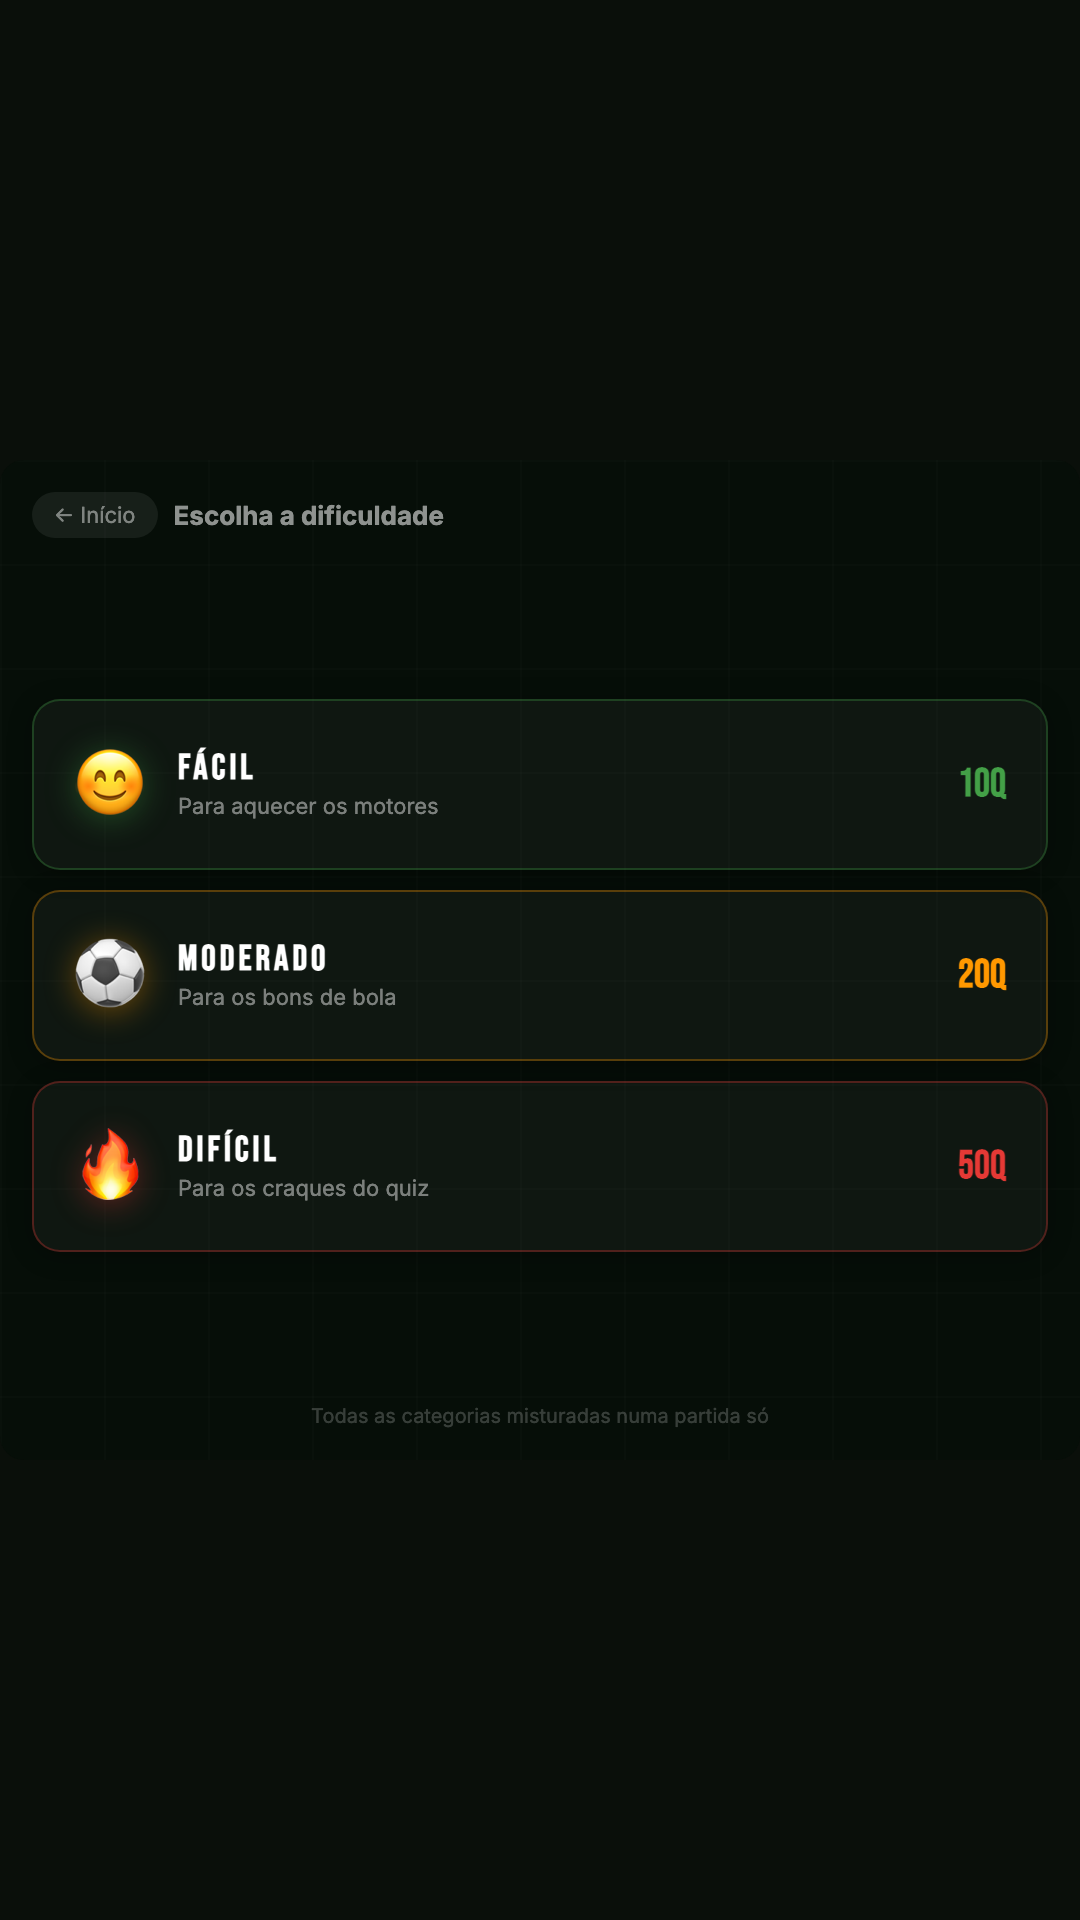
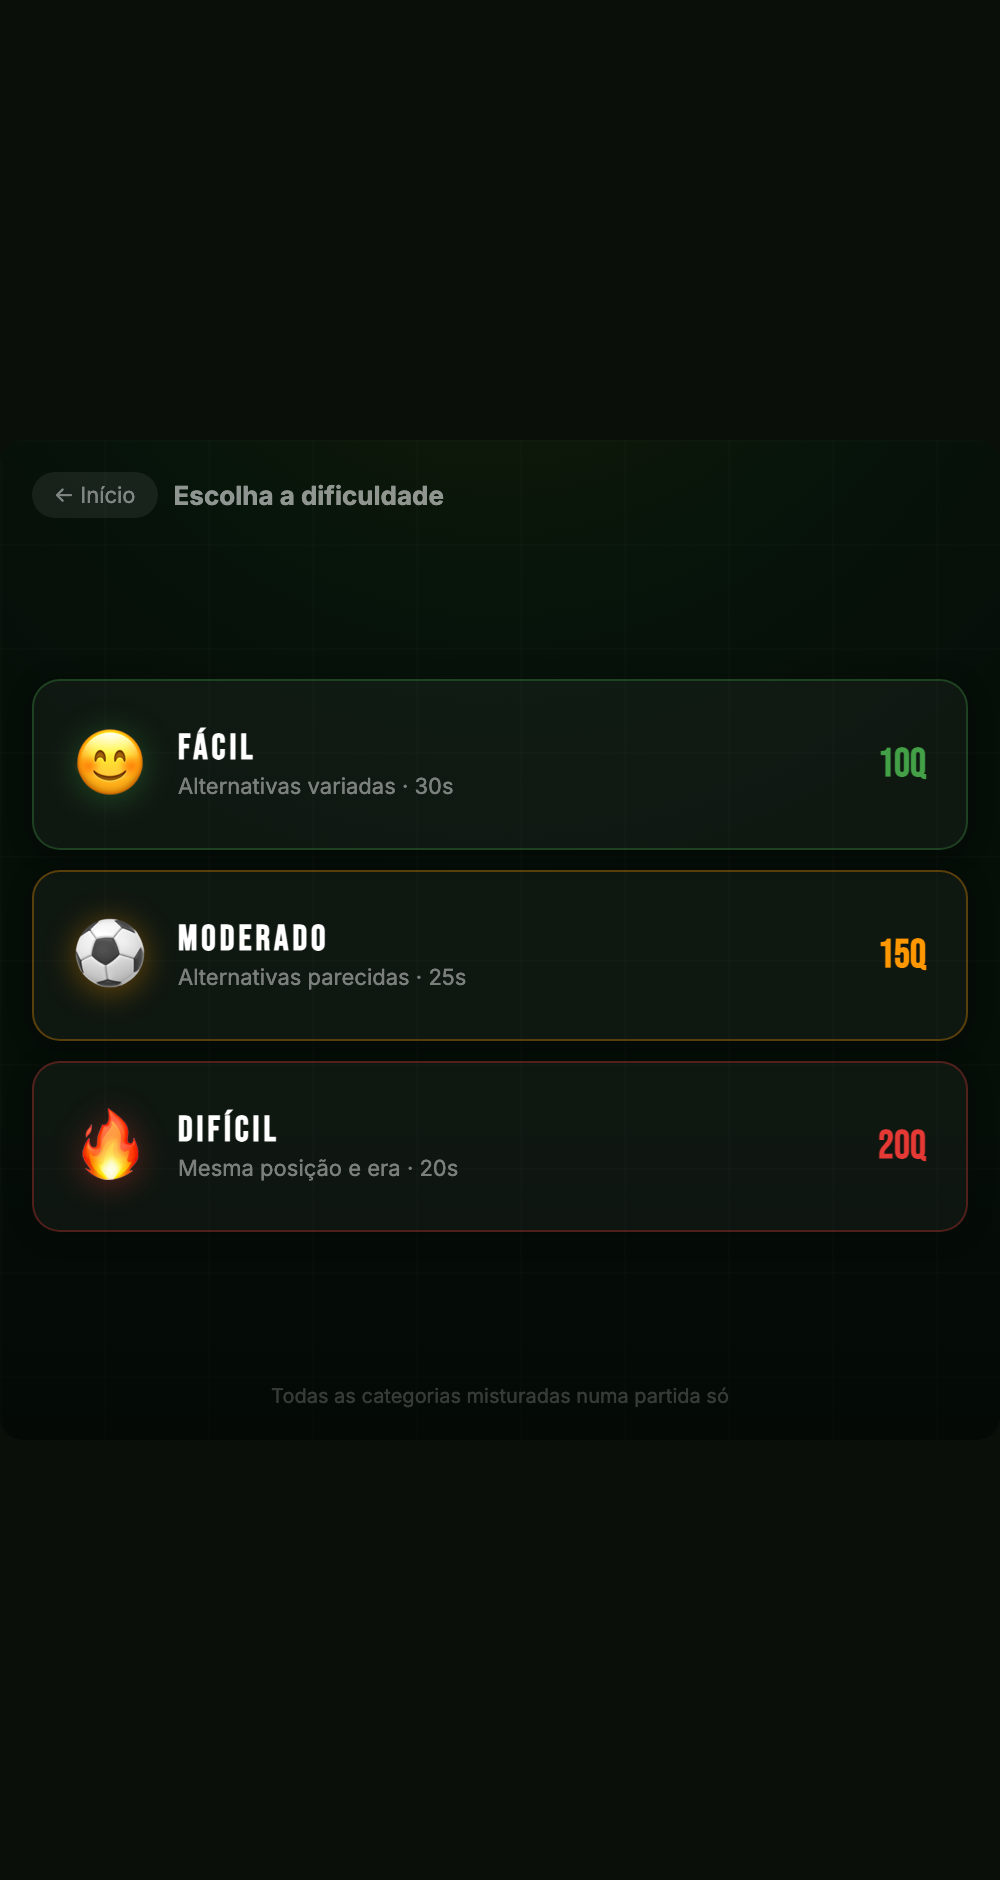
Refresh store assets and correct privacy policy for local storage
The app now persists records, stats, medals, the daily result and the sound
preference in localStorage. The privacy policy still claimed scores were
in-memory only and discarded on close, which was no longer true — rewritten
to describe on-device storage explicitly and state that it never leaves the
device. Data safety stays 'No data collected' (nothing is transmitted), and
the checklist now spells out why.

Also: 6 fresh 1000x1880 store screenshots covering the new home, medals,
photo-reveal and end screens; store description rewritten around the new
modes; checklist points at app-upload-v2.aab.

diff --git a/privacy.html b/privacy.html
@@ -13,7 +13,7 @@
 </head>
 <body>
   <h1>Política de Privacidade — Futebol Quiz BR</h1>
-  <p><strong>Última atualização:</strong> 28 de julho de 2026</p>
+  <p><strong>Última atualização:</strong> 1 de agosto de 2026</p>
 
   <p>O aplicativo <strong>Futebol Quiz BR</strong> ("o aplicativo") é um jogo de perguntas
   sobre futebol. Esta política explica como tratamos suas informações.</p>
@@ -23,9 +23,13 @@
   qualquer dado pessoal. Ele não solicita cadastro, login, localização, contatos, câmera,
   microfone ou qualquer permissão sensível.</p>
 
-  <h2>Pontuação do jogo</h2>
-  <p>Sua pontuação é mantida apenas temporariamente na memória do dispositivo durante a
-  partida e é descartada ao fechar o aplicativo. Ela nunca sai do seu dispositivo.</p>
+  <h2>Pontuação e progresso</h2>
+  <p>O aplicativo guarda no <strong>próprio aparelho</strong> (armazenamento local do
+  navegador) apenas: seus recordes, estatísticas de partidas, medalhas conquistadas,
+  o resultado do desafio diário e a preferência de som. Esses dados
+  <strong>nunca são enviados para nenhum servidor</strong>, não são compartilhados com
+  ninguém e não identificam você. Você pode apagá-los a qualquer momento limpando os
+  dados do aplicativo nas configurações do aparelho.</p>
 
   <h2>Anúncios e análises</h2>
   <p>O aplicativo <strong>não</strong> exibe anúncios e <strong>não</strong> utiliza
@@ -44,9 +48,10 @@
 
   <div class="lang">
     <h2>English summary</h2>
-    <p><strong>Futebol Quiz BR</strong> collects no data whatsoever. It has no accounts,
-    no ads, no analytics, and requests no sensitive permissions. Game scores are held only
-    in memory during play and discarded when the app closes — nothing ever leaves your device.
+    <p><strong>Futebol Quiz BR</strong> collects no personal data. It has no accounts,
+    no ads, no analytics, and requests no sensitive permissions. Your records, stats,
+    medals and sound preference are stored locally on your own device and are never
+    transmitted anywhere — nothing ever leaves your device.
     Contact: <a href="mailto:tiagor.reis@gmail.com">tiagor.reis@gmail.com</a></p>
   </div>
 </body>

diff --git a/tools/shots.py b/tools/shots.py
@@ -8,6 +8,24 @@ OUT = os.path.join(ROOT, "store-assets")
 
 # name -> JS to run once the page has booted
 STATES = {
+ "shot-01-home": """stats={games:14,correct:132,answered:190,bestStreak:6,perfect:1,hard80:1,survBest:9};
+   LS.set('stats',stats); sc='home'; go();""",
+ "shot-02-difficulty": "sc='difficulty'; go();",
+ "shot-03-question": """diffKey='dificil'; startGame();""",
+ "shot-04-players": """diffKey='moderado';
+   cat = buildGame('moderado');
+   const rq = GEN_QS(2).find(q => q.reveal);
+   cat.qs=[rq]; qi=0; sel.clear(); pts=0; streak=0; runLog=[];
+   sc='quiz'; tMax=25; tLeft=17; disp=getDisp(rq); go();""",
+ "shot-05-medals": """stats={games:14,correct:132,answered:190,bestStreak:6,perfect:1,hard80:1,survBest:4};
+   LS.set('stats',stats); sc='medals'; go();""",
+ "shot-06-end": """diffKey='dificil';
+   cat = buildGame('dificil'); cat.qs = cat.qs.slice(0,10);
+   pts=64; nCorrect=8; nPartial=1; bestStreak=5; streak=5;
+   runLog=[3,3,3,0,3,3,1,3,3,3]; scores['dificil']=64;
+   stats={games:12,correct:74,answered:110,bestStreak:7};
+   sc='end'; go();""",
+
  "s-wrong": """diffKey='moderado'; startGame();
    const q=cat.qs[0]; const bad=disp.find(o=>!q.a.includes(o.id));
    sel=new Set([bad.id]); tLeft=12; doReveal();""",

diff --git a/PLAY_STORE_LISTING.md b/PLAY_STORE_LISTING.md
@@ -13,31 +13,41 @@ Futebol Quiz BR
 
 **Short description** (max 80)
 ```
-Teste seus conhecimentos sobre futebol! Perguntas de craques, times e história.
+Quiz de futebol: craques, clubes e história. Desafio diário e mata-mata!
 ```
 
 **Full description** (max 4000)
 ```
 ⚽ Você realmente entende de futebol? Prove no Futebol Quiz BR!
 
-Coloque seu conhecimento à prova com perguntas sobre jogadores, clubes, seleções,
-títulos e momentos históricos do esporte mais amado do Brasil.
+Perguntas sobre craques, clubes, seleções, estádios e história — com fotos e
+escudos de verdade. Cada partida é diferente: as perguntas são montadas na
+hora, então nunca se repete.
 
-🏆 O QUE VOCÊ ENCONTRA:
-• Perguntas sobre craques, times e história do futebol
-• Vários níveis de dificuldade
-• Pontuação a cada acerto — tente bater seu recorde
-• Jogo rápido, perfeito para qualquer momento do dia
-• 100% em português
+🎮 MODOS DE JOGO:
+• Clássico — Fácil, Moderado e Difícil (as alternativas ficam mais parecidas
+  conforme a dificuldade: mesma posição, mesma época, mesma seleção)
+• Desafio Diário — a mesma partida para todo mundo, todo dia
+• Mata-mata — errou, acabou. Até onde você vai?
+• Foto revelada — a imagem vai ficando nítida; quem responde antes ganha mais
+• Caminho na carreira — descubra o jogador pelos clubes por onde passou
+
+🔥 PARA JOGAR DE VERDADE:
+• Sequências que multiplicam seus pontos (×2 e ×3)
+• Bônus por responder rápido
+• Ajudas: 50/50, congelar o tempo e pular
+• 11 medalhas para desbloquear
+• Recordes e estatísticas salvos no aparelho
+• Compartilhe seu resultado no WhatsApp
 
 📵 SEM COMPLICAÇÃO:
 • Sem cadastro e sem login
 • Sem anúncios
 • Não coleta nenhum dado pessoal
-• Leve e rápido
+• Leve, rápido e funciona offline
 
-Do futebol raiz aos dias atuais — quantas você acerta? Desafie os amigos e descubra
-quem é o verdadeiro craque do quiz!
+Do futebol raiz aos dias atuais — quantas você acerta?
+Desafie os amigos e descubra quem é o verdadeiro craque do quiz! 🇧🇷
 ```
 
 **Privacy policy URL**
@@ -53,19 +63,23 @@ https://tdosreis.github.io/futebol-quiz/privacy.html
 | Asset | Spec | Notes |
 |-------|------|-------|
 | App icon | 512×512 PNG (32-bit) | You already have icons/icon-512.png |
-| Feature graphic | 1024×500 PNG/JPG | Required. Needs to be made. |
-| Phone screenshots | 2–8, min 320px, 16:9 or 9:16 | REQUIRED. Capture from your phone/emulator. |
+| Feature graphic | 1024×500 PNG/JPG | Ready: store-assets/feature-graphic.png |
+| Phone screenshots | 2–8, min 320px | 6 ready: store-assets/shot-01..06 (1000×1880) |
 | Tablet screenshots | optional | skip unless targeting tablets |
 
-Tip: take screenshots of the difficulty screen, a question mid-game, and the score screen.
+All six are regenerated by `python3 tools/shots.py` after any UI change.
 
 ---
 
 ## 3. Required questionnaires (App content section)
 
 - **Privacy policy**: URL above
-- **Data safety**: "No data collected" / "No data shared" (verified: app has no
-  network calls, no analytics, no localStorage — scores are in-memory only)
+- **Data safety**: "No data collected" / "No data shared".
+  Verified: no network calls, no analytics, no ad SDK, no account.
+  NOTE: the app DOES use localStorage for records, stats, medals and the daily
+  streak — but that is on-device only and never transmitted, so it is not
+  "collection" under Play's definition. Answer "No" and keep it accurate by
+  never adding anything that sends it off the device.
 - **Ads**: No, my app does not contain ads
 - **Content rating**: complete IARC questionnaire → will come out "Everyone / Livre"
 - **Target audience & content**: 13+ is simplest; avoid the "under 13" (Families) track
@@ -109,7 +123,7 @@ Verify after push: `curl https://tdosreis.github.io/.well-known/assetlinks.json`
 ## 5. Publish order
 
 1. Create app (App name, package `io.github.tdosreis.futebolquiz`, pt-BR, Game, Free, declarations)
-2. Upload **`android/app-upload.aab`** (the re-signed bundle) → **Internal testing** first
+2. Upload **`android/app-upload-v2.aab`** (versionCode 2, current icon) → **Internal testing** first
 3. Complete all App content questionnaires + store listing above
 4. Select countries (Brasil + others)
 5. Install from Internal testing link → confirm it opens FULLSCREEN (no URL bar)
